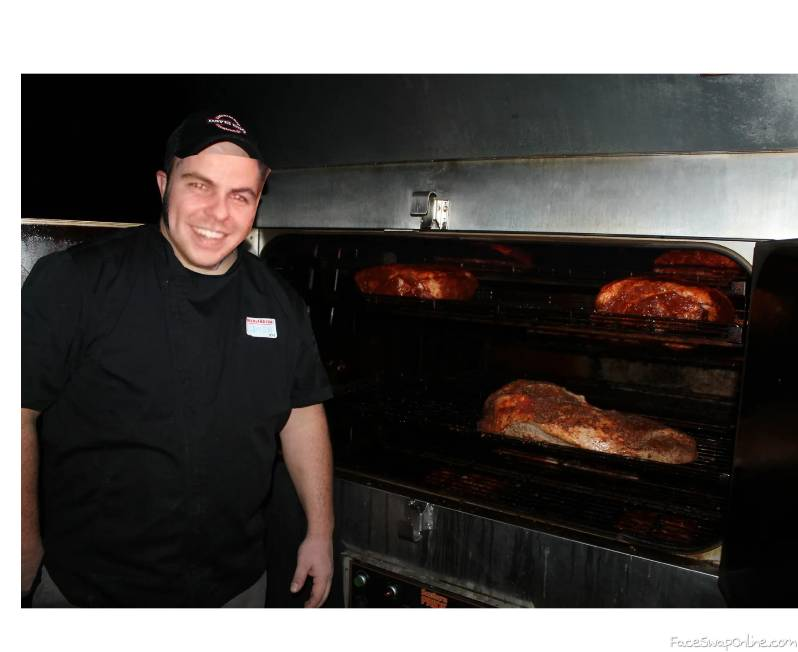
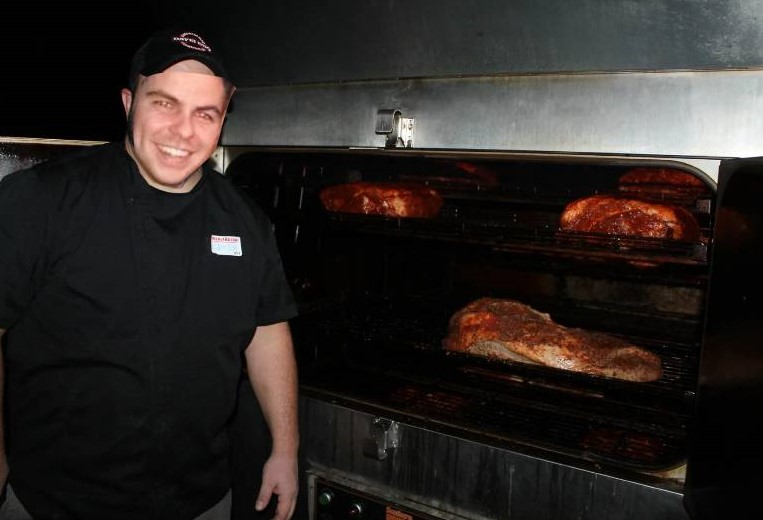
changes

diff --git a/Menu.html b/Menu.html
@@ -43,8 +43,31 @@
             <li class="push"><button id="orderonline"><a href="Menu.html">ORDER ONLINE</a></button></li>
         </ul>
     </header>
-    <div id="GMM-bodypic">
-        <img src="./pics/MeatRibs.jpg" alt="bodyPicture">
+    <div id="MP-bodypic">
+        <img src="./pics/menuPic.jpg" alt="bodyPicture">
+    </div>
+    <div id="MP-MenuBody">
+        <div id="smokedMeats">
+            <h1>Smoked Meats</h1>
+            <div id="smokedMeatsContainer">
+                <div id="burntEnds">
+                    <div><p>Burnt Ends - 1/2 Ib.             $15.00</p></div>
+                    <div><p>Burnt Ends - 1 Ib.               $15.00</p></div>
+                </div>
+                <li>Burnt Ends - 1/2 Ib.             $15.00</li>
+                <li>Brisket - 1/2 Ib.                $14.00</li>
+                <li>Smoked Turkey - 1/2 Ib.          $11.00</li>
+                <li>Pulled Pork - 1/2 Ib.            $10.00</li>
+                <li>Smoked Chicken - 1/2 Ib.         $10.00</li>
+                <li>St. Louis Style Ribs - Half      $15.00</li>
+                <li>Burnt Ends - 1 Ib.               $27.00</li>
+                <li>Brisket - 1 Ib.                  $23.00</li>
+                <li>Smoked Turkey - 1 Ib.            $18.00</li>
+                <li></li>
+                <li></li>
+                <li></li>
+            </div>
+        </div>
     </div>
     <script src="script.js"></script>
     </body>

diff --git a/GrillMasterMike.html b/GrillMasterMike.html
@@ -47,7 +47,7 @@
         <img src="./pics/MeatRibs.jpg" alt="bodyPicture">
     </div>
     <div id="GMM-mainbody">
-        <div id="GMM-mainbodypic"><img src="./pics/BBQMasterMike2.jpg"></img></div>
+        <div id="GMM-mainbodypic"><img src="./pics/BBQMasterMike.jpg"></img></div>
         <div id="GMM-mainbodytext">
             <h1>Meet The Man Behind the Meat</h1>
               <p>Pit Master Mike born and raised in Central Massachusetts comes to the Davis Family with 25 years of Food and Beverage experience.He Began training in 2016 as our BBQ Pit Master with Kansas City’s Best Pit Master Stephen “Smokey” Schwartz and Executive Chef Paully Clinton.</p>

diff --git a/style.css b/style.css
@@ -237,7 +237,7 @@ h2:before {
 #lowerbodytext p, h1 {
 	font-weight: bold;
 	font-size: 150%;
-	font-family: "Gill Sans";
+	/* font-family: "Gill Sans"; */
 }
 
 #meatman {
@@ -555,4 +555,28 @@ h3:before{
 		text-align: left;
 		line-height: 1.5;
 		color: #2d323b;
+	}
+
+	/* Menu Page */
+
+	#MP-bodypic img {
+		width: 100%
+	}
+
+	#MP-MenuBody {
+		margin-top: 120px;
+	}
+
+	#smokedMeats {
+		text-align: center;
+		color: #d62b00;
+		font-size: 2rem;
+		font-family: 'Newsreader', serif;
+	}
+
+	#burntEnds {
+		display: flex;
+		color: black;
+		font-size: 1.5rem;
+		justify-content: center;
 	}
